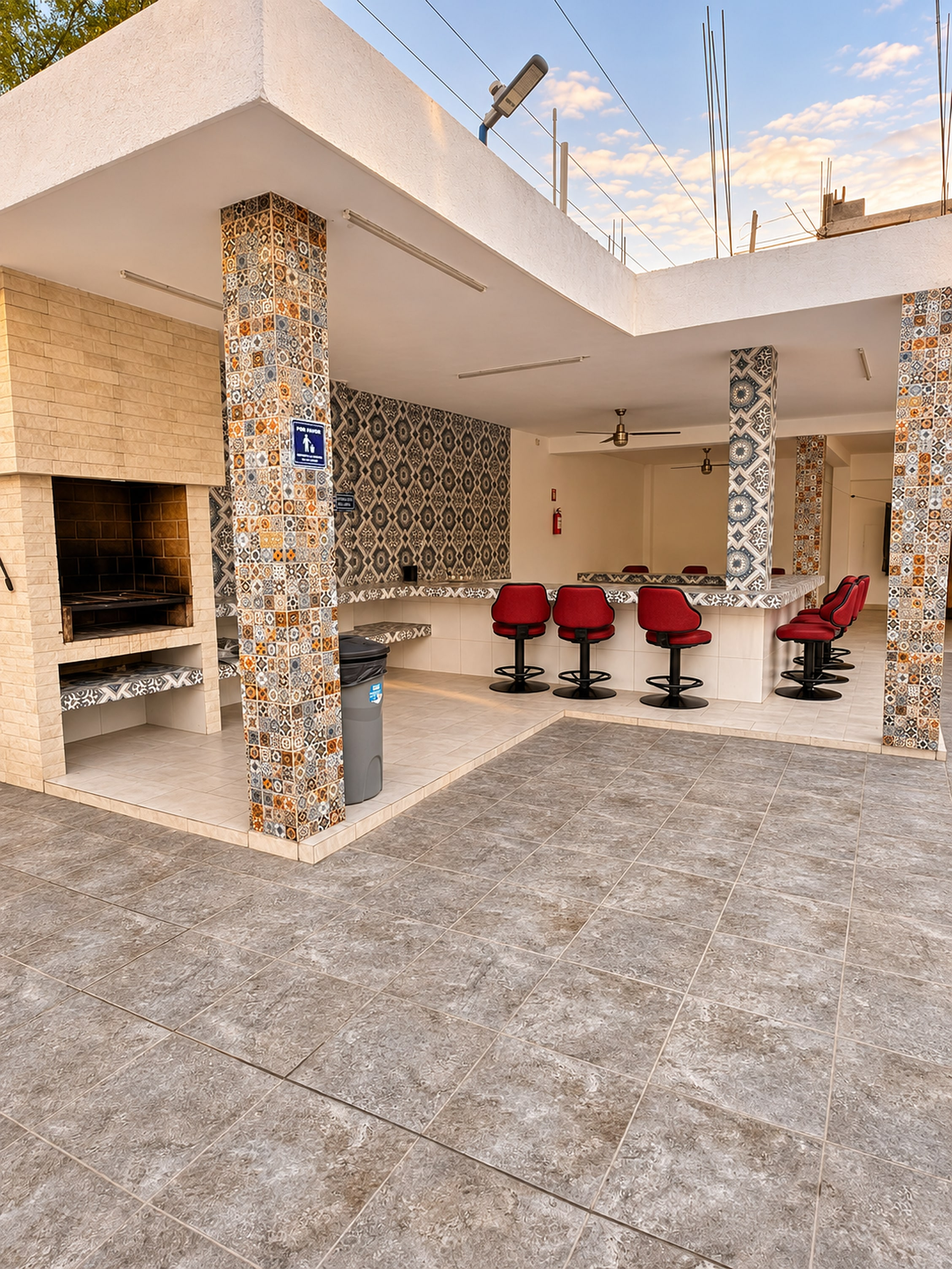
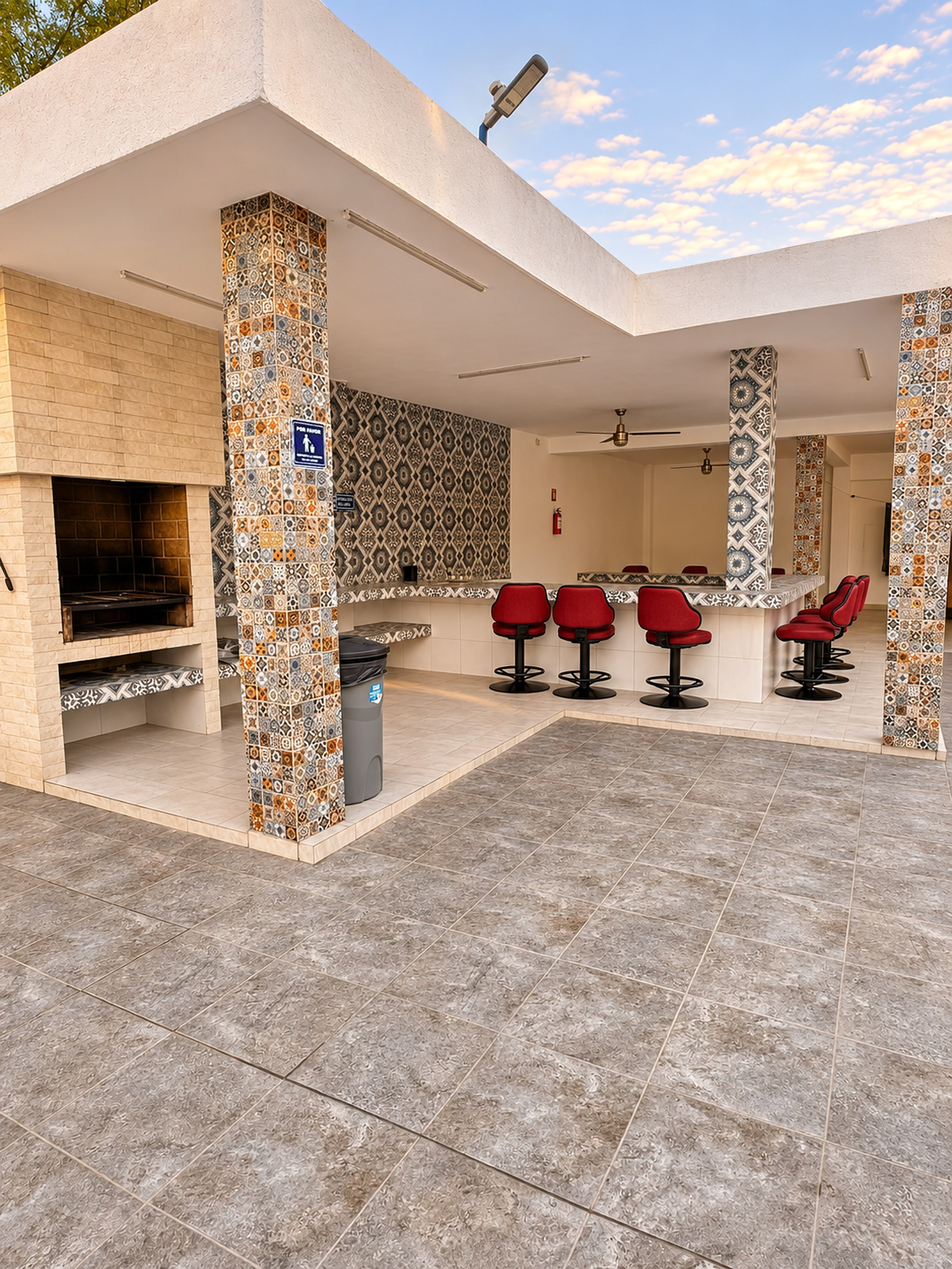
Quinta Azul: fotos de la palapa sin varillas ni restos de construcción en el cielo
Pedido del hotel (19 nov). Las dos fotos que muestran la abertura del techo
regresaron retocadas; fuera del cielo no cambió nada. Se guardaron con
calidad 90 como las demás.

Changed region(s): [[0.5585, 0.0, 1.0, 0.2188], [0.3413, 0.0, 0.4034, 0.0312], [0.4034, 0.0312, 0.4344, 0.0625]]

diff --git a/docs/LISTA-DEL-BRIEF.md b/docs/LISTA-DEL-BRIEF.md
@@ -496,4 +496,4 @@ El dueño pidió subir Los Arcos al sitio oficial. Quedó publicado en https://w
 
 - [x] La palapa recibe hasta **30** personas (antes decía 60) en todo el sitio nuevo: textos, preguntas, artículos del blog, datos para Google, cifras y el formulario de cotizar (abre en 20 y llega hasta 30). Los Arcos no cambia
 - [ ] El sitio publicado hoy de Quinta Azul (el anterior, rama `main`) todavía dice «hasta 60 personas»
-- [ ] Quitar las varillas y los restos de construcción del cielo en las dos fotos de la palapa que lo muestran. Paquete para Codex en `E:/hoteles-contenido/para-retocar/ronda-4` (lo arma `node scripts/ronda4-retoque.mjs`); las fotos regresan a `devueltas-4`. Se revisan con `node scripts/revision-retoque.mjs --carpeta=devueltas-4 --manifiesto=manifiesto-4.json` y, si quedan bien, sustituyen a las de `src/assets/qa/` con el mismo nombre (ya traen el acabado; no se les vuelve a aplicar)
+- [x] (Hecho el 19 de noviembre: las dos fotos regresaron limpias; fuera del cielo no cambió nada, medido píxel por píxel, y se guardaron con calidad 90 como las demás) Quitar las varillas y los restos de construcción del cielo en las dos fotos de la palapa que lo muestran. Paquete para Codex en `E:/hoteles-contenido/para-retocar/ronda-4` (lo arma `node scripts/ronda4-retoque.mjs`); las fotos regresan a `devueltas-4`. Se revisan con `node scripts/revision-retoque.mjs --carpeta=devueltas-4 --manifiesto=manifiesto-4.json` y, si quedan bien, sustituyen a las de `src/assets/qa/` con el mismo nombre (ya traen el acabado; no se les vuelve a aplicar)
